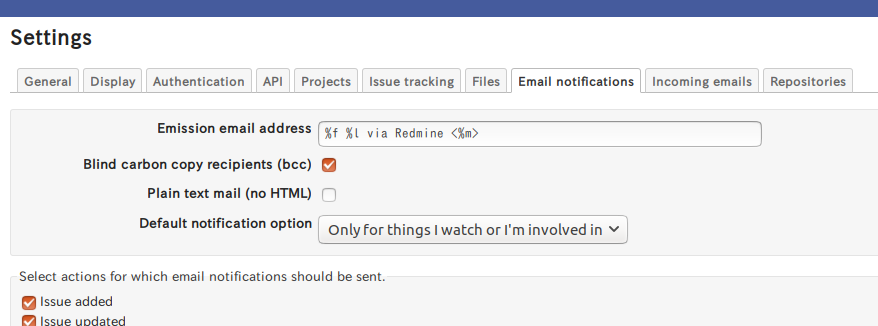
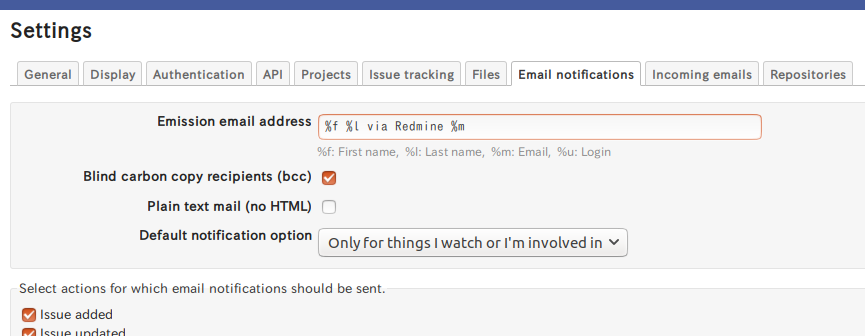
Add description below the "Emission email address" field

diff --git a/lib/redmine_mail_from/hooks.rb b/lib/redmine_mail_from/hooks.rb
@@ -1,0 +1,6 @@
+module RedmineMailFrom
+  class Hooks < Redmine::Hook::ViewListener
+    render_on :view_settings_general_form,
+              :partial => 'hooks/redmine_mail_from/settings'
+  end
+end

diff --git a/init.rb b/init.rb
@@ -1,4 +1,5 @@
 require 'redmine'
+require_dependency 'redmine_mail_from/hooks'
 
 Rails.configuration.to_prepare do
   require_dependency 'redmine_mail_from/mailer_model_patch'
